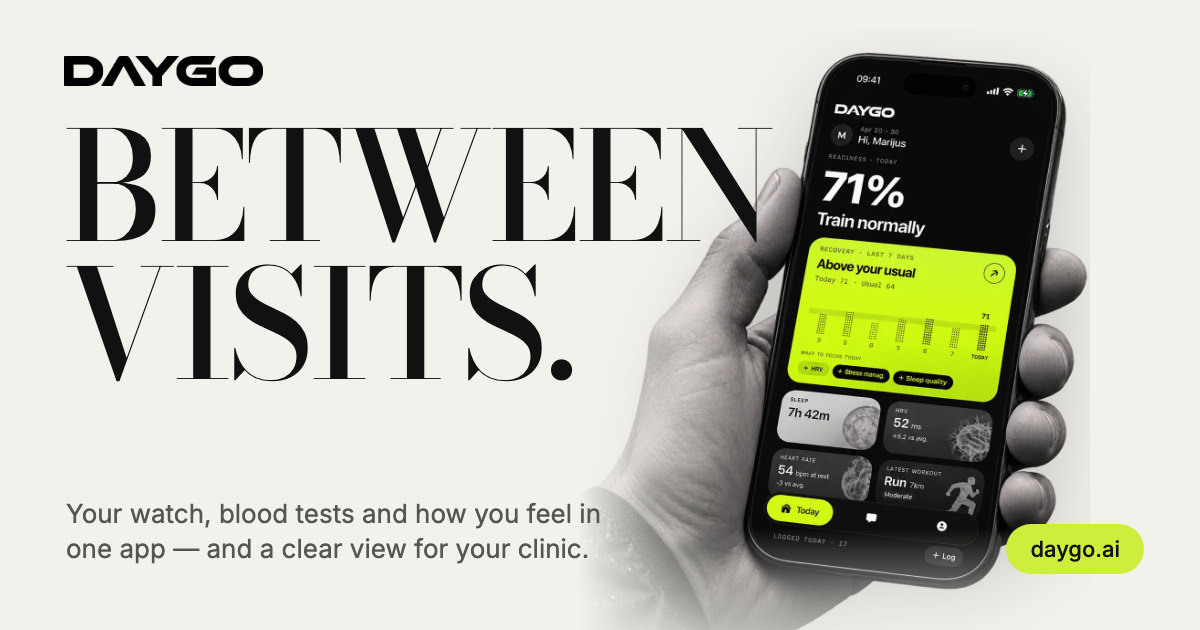
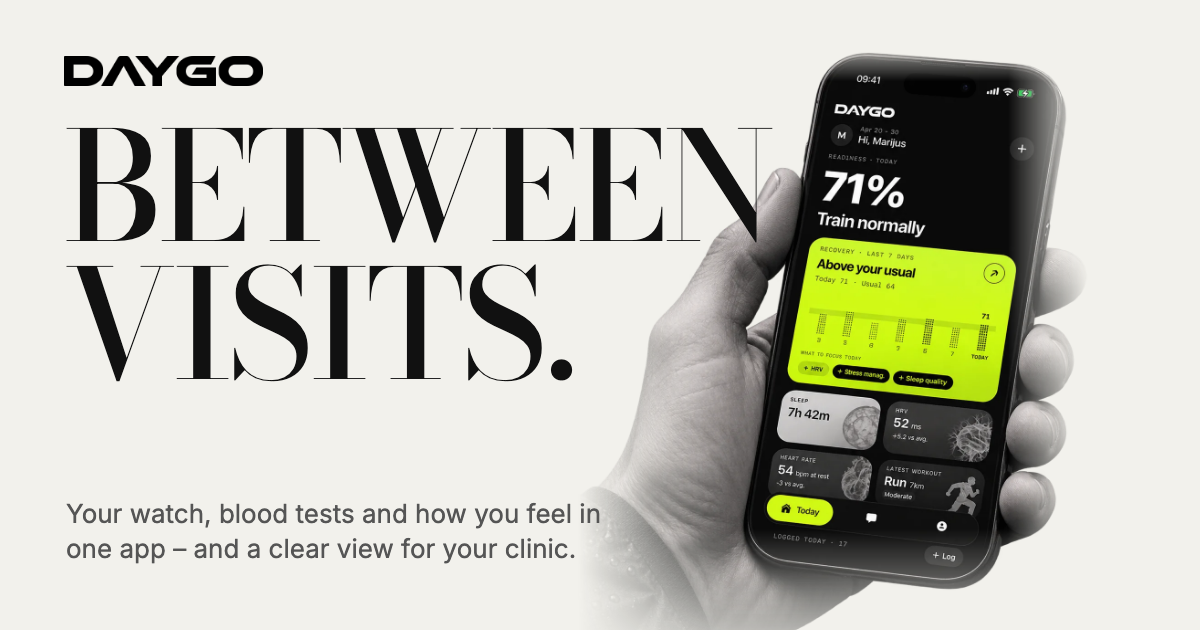
Preview card: no URL pill, no shadow, short dash

diff --git a/app/layout.tsx b/app/layout.tsx
@@ -16,7 +16,7 @@ export const metadata: Metadata = {
     url: "https://daygo.ai",
     siteName: "Daygo",
     type: "website",
-    images: [{ url: "/og.png", width: 1200, height: 630, alt: "Daygo — Between visits" }],
+    images: [{ url: "/og.png", width: 1200, height: 630, alt: "Daygo – Between visits" }],
   },
   twitter: {
     card: "summary_large_image",

diff --git a/app/lt/layout.tsx b/app/lt/layout.tsx
@@ -12,7 +12,7 @@ export const metadata: Metadata = {
     siteName: "Daygo",
     type: "website",
     locale: "lt_LT",
-    images: [{ url: "/og.png", width: 1200, height: 630, alt: "Daygo — tarp vizitų" }],
+    images: [{ url: "/og.png", width: 1200, height: 630, alt: "Daygo – tarp vizitų" }],
   },
   twitter: {
     card: "summary_large_image",
